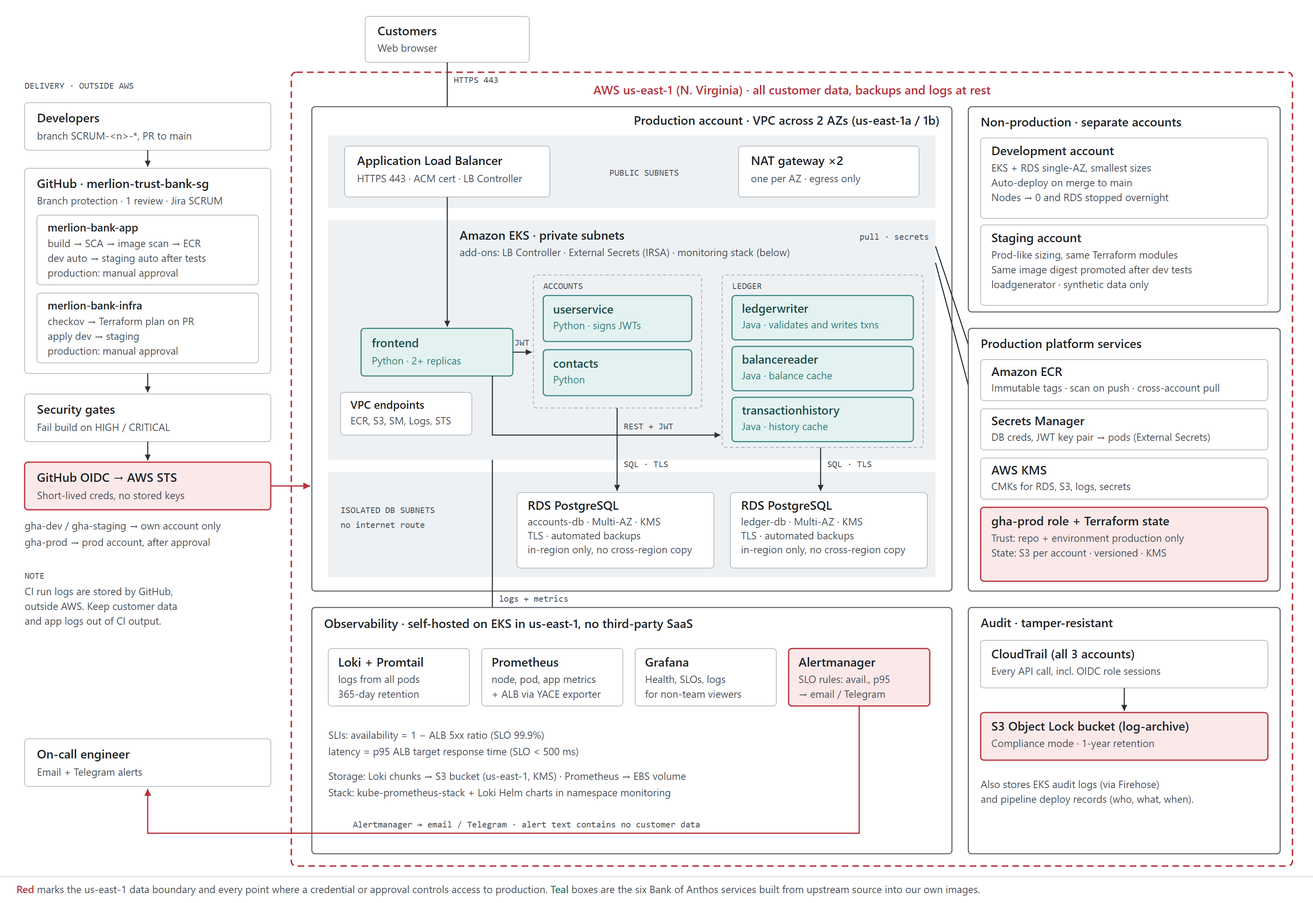
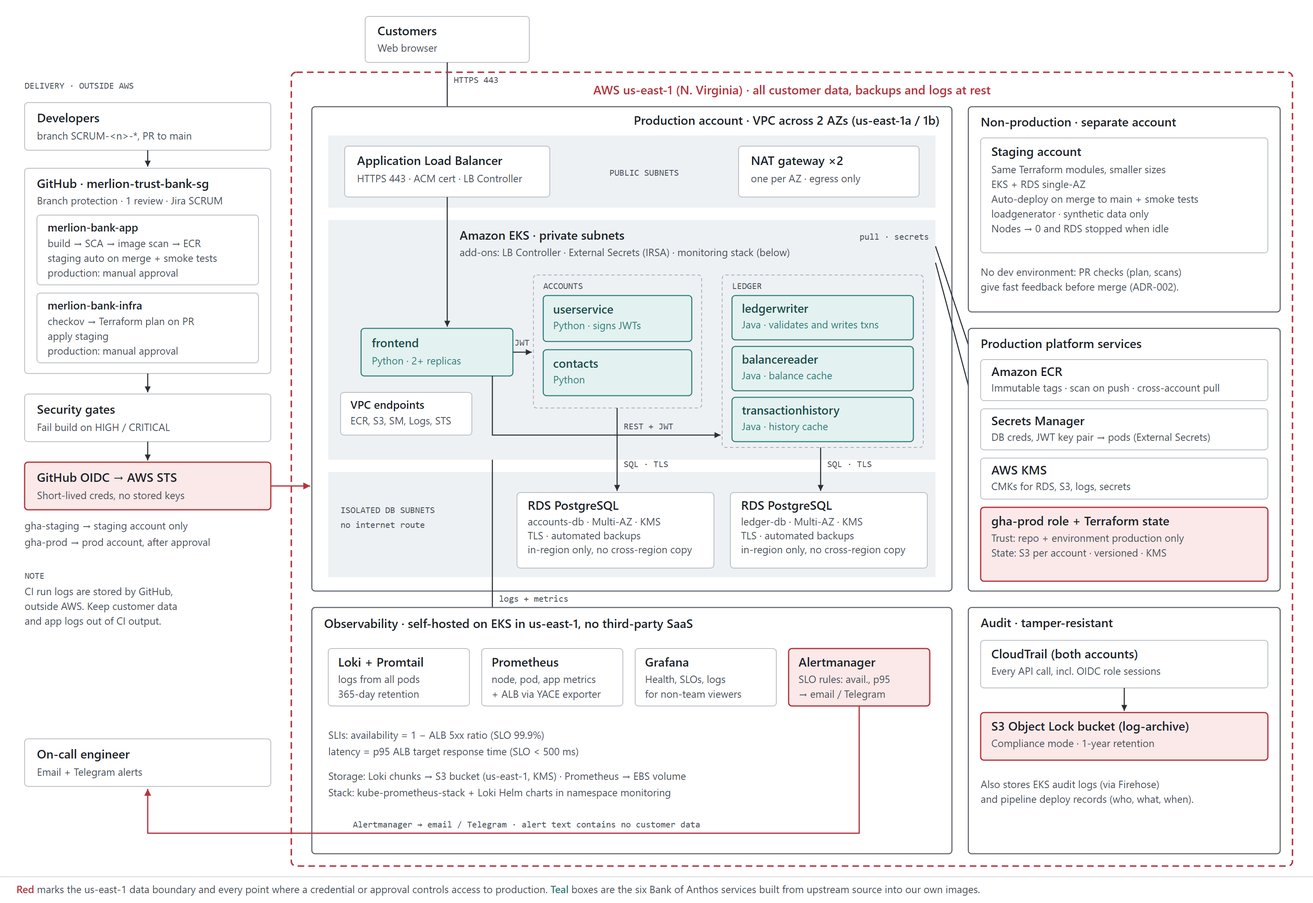
docs: DOC-07 two environments - update task breakdown, diagram, checklist

diff --git a/docs/task-breakdown.md b/docs/task-breakdown.md
@@ -1,7 +1,7 @@
 # Merlion Trust Bank – Code Check-in Task Breakdown
 
 Capstone: Cloud Infrastructure Engineering · Use Case A (Merlion Trust Bank) · Reference app: Google Bank of Anthos
-Region: **`us-east-1`** (2 AZs: `us-east-1a`, `us-east-1b`) · Accounts: **dev / staging / prod** · Work tracking: **Jira SCRUM board**
+Region: **`us-east-1`** (2 AZs: `us-east-1a`, `us-east-1b`) · Environments / accounts: **staging / prod** · Work tracking: **Jira SCRUM board**
 
 > **Region note.** The brief's data-residency constraint names `ap-southeast-1`. Our instructor has directed us to deploy in **`us-east-1`**, so we treat the constraint as *"all customer data, backups and logs stay in one approved region"*.
 > - Region is a single Terraform variable (`var.region`). Moving to Singapore is a variable change plus a redeploy.
@@ -29,15 +29,15 @@ Region: **`us-east-1`** (2 AZs: `us-east-1a`, `us-east-1b`) · Accounts: **dev /
 
 | Layer | What we build |
 |---|---|
-| Delivery (outside AWS) | GitHub org `merlion-trust-bank-sg` · branches `SCRUM-<n>-*` · PR to `main` with 1 review · Actions: build → SCA → image scan · dev auto → staging auto after tests → **production manual approval** · Terraform plan shown on PR |
-| Identity | GitHub OIDC → AWS STS. `gha-dev` / `gha-staging` can only touch their own account. `gha-prod` reaches the prod account only from the `production` environment, after approval. No stored keys |
-| Accounts | **Dev** (EKS + RDS single-AZ, smallest sizes, auto-deploy on merge, scale to 0 overnight) · **Staging** (prod-like sizing, same Terraform modules, same image promoted, loadgenerator) · **Prod** |
+| Delivery (outside AWS) | GitHub org `merlion-trust-bank-sg` · branches `SCRUM-<n>-*` · PR to `main` with 1 review · Actions: build → SCA → image scan · staging auto on merge → smoke tests → **production manual approval** · Terraform plan shown on PR |
+| Identity | GitHub OIDC → AWS STS. `gha-staging` can only touch the staging account. `gha-prod` reaches the prod account only from the `production` environment, after approval. No stored keys |
+| Accounts | **Staging** (prod-like but smaller, same Terraform modules, auto-deploy on merge, loadgenerator, scaled down when idle) · **Prod** (same image digest promoted after approval). No dev environment: PR checks give fast feedback (ADR-002) |
 | Network (prod) | VPC across 2 AZs. **Public subnets:** ALB (AWS Load Balancer Controller + ACM cert), NAT gateway. **Private subnets:** EKS. **Isolated DB subnets:** no internet route |
 | Workload | 6 Bank of Anthos services built into our own images: `frontend` (2+ replicas), `userservice` (signs JWTs), `contacts`, `ledgerwriter`, `balancereader`, `transactionhistory` |
 | Data | RDS PostgreSQL `accounts-db` and `ledger-db`: Multi-AZ, KMS-encrypted, automated backups, SQL over TLS |
 | Platform services | ECR (immutable tags, scan on push) · Secrets Manager (DB creds, JWT key pair → pods via External Secrets/IRSA) · KMS CMKs (RDS, S3, logs, secrets) · Terraform state in S3 (versioned, encrypted) |
 | Observability | **Self-hosted on EKS** in `us-east-1`, no third-party SaaS (namespace `monitoring`, `kube-prometheus-stack` + Loki Helm charts): **Loki + Promtail** (logs from all pods, chunks in S3 `us-east-1` + KMS, 365-day retention) · **Prometheus** (node, pod, app metrics on EBS; ALB metrics via **YACE** CloudWatch exporter) · **Grafana** (health, SLOs, logs for non-team viewers) · **Alertmanager** (SLO rules → email / Telegram) |
-| Audit | CloudTrail in all 3 accounts → **S3 Object Lock, compliance mode, 1-year retention**. Also stores EKS audit logs and pipeline deploy records (who, what, when) |
+| Audit | CloudTrail in both accounts → **S3 Object Lock, compliance mode, 1-year retention**. Also stores EKS audit logs and pipeline deploy records (who, what, when) |
 
 ---
 
@@ -50,7 +50,7 @@ merlion-bank-infra/
 ├── .github/
 │   ├── workflows/
 │   │   ├── tf-plan.yml            # PR: fmt, validate, tflint, checkov, plan per env -> PR comment
-│   │   └── tf-apply.yml           # main: apply dev -> staging -> (approval) -> prod
+│   │   └── tf-apply.yml           # main: apply staging -> (approval) -> prod
 │   ├── CODEOWNERS
 │   └── pull_request_template.md
 ├── bootstrap/                     # per account: state bucket, lock, GitHub OIDC provider
@@ -61,14 +61,13 @@ merlion-bank-infra/
 │   ├── rds/                       # accounts-db, ledger-db
 │   ├── ecr/                       # one repo per service
 │   ├── secrets/                   # Secrets Manager entries (DB creds, JWT key pair)
-│   ├── iam-ci/                    # gha-dev, gha-staging, gha-prod OIDC roles
+│   ├── iam-ci/                    # gha-staging, gha-prod OIDC roles
 │   ├── audit/                     # CloudTrail + Object Lock bucket
 │   ├── addons/                    # LB Controller, External Secrets
 │   └── observability/             # Loki S3 bucket + IRSA, Helm releases (kube-prometheus-stack,
 │                                  #   Loki, Promtail, YACE), Grafana dashboards JSON,
 │                                  #   PrometheusRules (SLOs), Alertmanager routes
 ├── envs/
-│   ├── dev/                       # root module, dev account
 │   ├── staging/                   # root module, staging account
 │   └── prod/                      # root module, prod account
 ├── docs/
@@ -89,14 +88,13 @@ merlion-bank-app/
 ├── .github/
 │   ├── workflows/
 │   │   ├── ci.yml                 # PR: SCA, build, image scan (fail on HIGH/CRITICAL), gitleaks
-│   │   └── cd.yml                 # main: push ECR -> dev -> tests -> staging -> approval -> prod
+│   │   └── cd.yml                 # main: push ECR -> staging -> smoke tests -> approval -> prod
 │   ├── CODEOWNERS
 │   └── pull_request_template.md
 ├── src/                           # Bank of Anthos upstream source, pinned release tag
 ├── deploy/
 │   └── helm/bank-of-anthos/       # OUR chart (upstream manifests = reference only)
 │       ├── templates/
-│       ├── values-dev.yaml
 │       ├── values-staging.yaml
 │       └── values-prod.yaml
 ├── ops/
@@ -105,7 +103,7 @@ merlion-bank-app/
 │   ├── queries/                   # saved LogQL / PromQL queries
 │   └── demo/                      # failing-gate PR + alert trigger scripts
 ├── security/.trivyignore          # justified exceptions only, each with expiry
-└── README.md                      # pipeline doc: SCRUM branch -> PR -> dev -> staging -> prod
+└── README.md                      # pipeline doc: SCRUM branch -> PR -> staging -> prod
 ```
 
 ---
@@ -120,7 +118,7 @@ merlion-bank-app/
 | Reviewer | **Never the author**, and preferably from a different role (see "Reviewer" columns) |
 | Commit messages | `SCRUM-<n>: <type>(<scope>): <summary>`. Example: `SCRUM-12: feat(network): add isolated DB subnets` |
 | PR template | What changed · Why · Jira link · `terraform plan` / test evidence · Constraint impact (region / audit / retention / credentials) |
-| GitHub Environments | `dev` (no gate) · `staging` (no gate, runs after dev tests) · `production` (**required reviewers**, only `main`) |
+| GitHub Environments | `staging` (no gate, auto on merge to `main`) · `production` (**required reviewers**, only `main`) |
 | Never commit | Secrets, kubeconfigs, `.terraform/`, state files, `*.tfvars` with secrets. gitleaks runs as a pre-commit hook and in CI |
 | CI output hygiene | CI run logs are stored by GitHub, outside our AWS region. **No customer data and no app logs in CI output.** Smoke tests assert on status codes only |
 
@@ -135,23 +133,23 @@ Replace `SCRUM-<n>` with the Jira issue number when you create the ticket.
 | ID | Task | Owner | Branch | Key files | Depends on | Reviewer |
 |---|---|---|---|---|---|---|
 | INF-01 | Repo setup: branch protection, CODEOWNERS, PR template, `.gitignore`, gitleaks pre-commit, Jira link, README skeleton | DO1 | `SCRUM-<n>-repo-setup` | `.github/*`, `README.md` | – | SA |
-| INF-02 | Bootstrap **each account** (dev, staging, prod): S3 state bucket (versioned, KMS), lock table, GitHub OIDC provider | DO1 | `SCRUM-<n>-bootstrap` | `bootstrap/` | INF-01 | SRE |
-| INF-03 | OIDC roles `gha-dev`, `gha-staging`, `gha-prod`. Trust is pinned to `repo:merlion-trust-bank-sg/*` + environment; `gha-prod` trusts only `environment:production`; each role is scoped to its own account | DO1 | `SCRUM-<n>-oidc-roles` | `modules/iam-ci/` | INF-02 | SA |
+| INF-02 | Bootstrap **each account** (staging, prod): S3 state bucket (versioned, KMS), lock table, GitHub OIDC provider | DO1 | `SCRUM-<n>-bootstrap` | `bootstrap/` | INF-01 | SRE |
+| INF-03 | OIDC roles `gha-staging`, `gha-prod`. Trust is pinned to `repo:merlion-trust-bank-sg/*` + environment; `gha-prod` trusts only `environment:production`; each role is scoped to its own account | DO1 | `SCRUM-<n>-oidc-roles` | `modules/iam-ci/` | INF-02 | SA |
 | INF-04 | KMS module: CMKs for RDS, S3 (state + audit), CloudWatch Logs, Secrets Manager; key policies, rotation on | DO2 | `SCRUM-<n>-kms` | `modules/kms/` | INF-02 | DO1 |
-| INF-05 | Network: VPC across **2 AZs (`us-east-1a`, `us-east-1b`)**. Public subnets (ALB, NAT), private subnets (EKS), **isolated DB subnets with no internet route**, VPC endpoints (ECR, S3, Secrets Manager, Logs, STS). 1 NAT in dev/staging | DO1 | `SCRUM-<n>-network` | `modules/network/` | INF-02 | SA |
+| INF-05 | Network: VPC across **2 AZs (`us-east-1a`, `us-east-1b`)**. Public subnets (ALB, NAT), private subnets (EKS), **isolated DB subnets with no internet route**, VPC endpoints (ECR, S3, Secrets Manager, Logs, STS). 1 NAT in staging, 1 per AZ in prod | DO1 | `SCRUM-<n>-network` | `modules/network/` | INF-02 | SA |
 | INF-06 | EKS: cluster in private subnets, managed node group, IRSA, control-plane logs **including `audit`** → CloudWatch | DO1 | `SCRUM-<n>-eks` | `modules/eks/` | INF-05 | SRE |
-| INF-07 | RDS: `accounts-db` and `ledger-db` PostgreSQL in isolated DB subnets. Multi-AZ in staging/prod, single-AZ in dev. KMS encryption, automated backups, `rds.force_ssl = 1`, SG allows only EKS nodes | DO2 | `SCRUM-<n>-rds` | `modules/rds/` | INF-04, INF-05 | DO1 |
+| INF-07 | RDS: `accounts-db` and `ledger-db` PostgreSQL in isolated DB subnets. Multi-AZ in prod, single-AZ in staging (cost). KMS encryption, automated backups, `rds.force_ssl = 1`, SG allows only EKS nodes | DO2 | `SCRUM-<n>-rds` | `modules/rds/` | INF-04, INF-05 | DO1 |
 | INF-08 | ECR: one repo per service, **immutable tags**, scan on push, lifecycle policy. Promotion model (central vs per-account) per ADR-007 | DO2 | `SCRUM-<n>-ecr` | `modules/ecr/` | INF-02 | DO1 |
 | INF-09 | Secrets Manager: DB credentials (RDS-managed master secret) and JWT key pair, KMS-encrypted. Read access only for the External Secrets IRSA role | DO2 | `SCRUM-<n>-secrets` | `modules/secrets/` | INF-04, INF-07 | SRE |
-| INF-10 | Audit: CloudTrail in **all 3 accounts** (management + data events for audit bucket) → S3 bucket with **Object Lock compliance mode, 365 days**, log file validation, bucket policy denying delete/`PutBucketObjectLockConfiguration` to engineering roles; prefixes for EKS audit logs and pipeline deploy records | SA | `SCRUM-<n>-audit-trail` | `modules/audit/` | INF-04 | DO1 |
+| INF-10 | Audit: CloudTrail in **both accounts** (management + data events for audit bucket) → S3 bucket with **Object Lock compliance mode, 365 days**, log file validation, bucket policy denying delete/`PutBucketObjectLockConfiguration` to engineering roles; prefixes for EKS audit logs and pipeline deploy records | SA | `SCRUM-<n>-audit-trail` | `modules/audit/` | INF-04 | DO1 |
 | INF-11 | Region guardrail: `var.region = "us-east-1"` in every env root; deny-other-regions policy on CI roles; CloudTrail alarm on console write events in prod | SA | `SCRUM-<n>-region-guardrail` | `modules/iam-ci/`, `envs/*/providers.tf` | INF-03, INF-10 | DO1 |
-| INF-12 | Env roots `envs/dev`, `envs/staging`, `envs/prod` wiring all modules. Separate state per account; dev smallest sizes, staging prod-like | DO1 | `SCRUM-<n>-env-roots` | `envs/` | INF-04…10 | DO2 |
-| INF-13 | Infra pipeline. **PR:** fmt / validate / tflint / **checkov (fail on HIGH)** / `plan` per env posted as PR comment. **main:** apply dev (`gha-dev`) → staging (`gha-staging`) → **manual approval** → prod (`gha-prod`) | DO2 | `SCRUM-<n>-tf-pipeline` | `.github/workflows/tf-*.yml` | INF-03, INF-12 | DO1 |
+| INF-12 | Env roots `envs/staging`, `envs/prod` wiring all modules. Separate state per account; staging smaller sizes | DO1 | `SCRUM-<n>-env-roots` | `envs/` | INF-04…10 | DO2 |
+| INF-13 | Infra pipeline. **PR:** fmt / validate / tflint / **checkov (fail on HIGH)** / `plan` per env posted as PR comment. **main:** apply staging (`gha-staging`) → **manual approval** → prod (`gha-prod`) | DO2 | `SCRUM-<n>-tf-pipeline` | `.github/workflows/tf-*.yml` | INF-03, INF-12 | DO1 |
 | INF-14 | Cluster add-ons part 1: **AWS Load Balancer Controller** (IRSA), **ACM certificate** for the ALB, **External Secrets Operator** (IRSA → Secrets Manager) | DO2 | `SCRUM-<n>-addons-lb-eso` | `modules/addons/` | INF-06, INF-09 | SRE |
 | INF-15 | Monitoring stack in namespace `monitoring` via Helm (Terraform `helm_release`, pinned chart versions): **kube-prometheus-stack** (Prometheus on EBS PV, node-exporter, kube-state-metrics, Grafana, Alertmanager), **Loki** with chunks in an **S3 bucket in `us-east-1`** (KMS, IRSA, compactor retention **365 days**), **Promtail** DaemonSet (or Grafana Alloy, Promtail's successor), **YACE** exporter (IRSA, read-only CloudWatch) for ALB 5xx / `TargetResponseTime`. Grafana exposed via ALB ingress with login, admin password from Secrets Manager | SRE | `SCRUM-<n>-monitoring-stack` | `modules/observability/` | INF-06, INF-04, INF-14 | DO2 |
 | INF-16 | Alert routing: **Alertmanager** receivers for **email** (SMTP) and **Telegram** (native `telegram_configs`). Bot token + SMTP creds via External Secrets, never in values files. Alert templates carry metric names and thresholds only, **no customer data**. Include a `Watchdog` / dead-man's-switch alert so a down Prometheus is noticed | SRE | `SCRUM-<n>-alertmanager-routing` | `modules/observability/` | INF-15 | DO2 |
 | INF-17 | **Grafana dashboard** ("is the system healthy right now?"): SLO status + error budget, ALB requests / 5xx / p95, pod and node CPU and memory, Loki log panel per service. Provisioned as JSON (dashboards-as-code). **PrometheusRules** for SLOs: availability burn rate, p95 > 500 ms, plus pod CrashLoop / DB unreachable | SRE | `SCRUM-<n>-grafana-slo-rules` | `modules/observability/` | INF-15, INF-16, APP-13 | SA |
-| INF-18 | Cost controls: tagging standard, AWS Budgets alert per account, **dev scale-to-0 overnight** (scheduled node group scaling), teardown workflow | SRE | `SCRUM-<n>-cost-controls` | `envs/dev/`, `.github/workflows/teardown.yml` | INF-12 | SA |
+| INF-18 | Cost controls: tagging standard, AWS Budgets alert per account, **staging scale-to-0 when idle** (scheduled node group scaling, RDS stop), teardown workflow | SRE | `SCRUM-<n>-cost-controls` | `envs/staging/`, `.github/workflows/teardown.yml` | INF-12 | SA |
 
 ### 5.2 Docs and ADRs (`merlion-bank-infra/docs`)
 
@@ -161,20 +159,20 @@ Replace `SCRUM-<n>` with the Jira issue number when you create the ticket.
 | DOC-02 | Architecture diagram: update the region label to `us-east-1` and keep it matching what's deployed | SA | `SCRUM-<n>-architecture-diagram` | DO1 |
 | DOC-03 | Service selection: chosen vs alternative vs why (EKS, RDS, GitHub Actions, Prometheus/Loki/Grafana, Secrets Manager) | SA | `SCRUM-<n>-service-selection` | DO2 |
 | DOC-04 | Constraint compliance mapping: constraint → decision → evidence (see [section 8](#8-hard-constraint-traceability)) | SA | `SCRUM-<n>-compliance-map` | SRE |
-| DOC-05 | Monthly prod cost estimate with `us-east-1` pricing (EKS, nodes incl. monitoring stack, 2× Multi-AZ RDS, NAT, ALB, EBS for Prometheus, S3 for Loki + audit, CloudTrail, YACE CloudWatch API calls) plus dev/staging run cost | SA | `SCRUM-<n>-cost-estimate` | SRE |
+| DOC-05 | Monthly prod cost estimate with `us-east-1` pricing (EKS, nodes incl. monitoring stack, 2× Multi-AZ RDS, NAT, ALB, EBS for Prometheus, S3 for Loki + audit, CloudTrail, YACE CloudWatch API calls) plus staging run cost | SA | `SCRUM-<n>-cost-estimate` | SRE |
 | DOC-06 | ADR-001 Runtime: EKS vs ECS | SA | `SCRUM-<n>-adr-001-runtime` | DO1 |
-| DOC-07 | ADR-002 Multi-account dev/staging/prod vs single account | DO1 | `SCRUM-<n>-adr-002-accounts` | SA |
+| DOC-07 | ADR-002 Environments: staging + production, one account each (vs single account, vs adding dev) | DO1 | `SCRUM-<n>-adr-002-accounts` | SA |
 | DOC-08 | ADR-003 Observability: **self-hosted Prometheus + Loki + Grafana + Alertmanager on EKS** (chosen) vs CloudWatch (alternative) vs Grafana Cloud (rejected: SaaS, data outside our region). Consequences: data stays in `us-east-1`, open-source skills from the labs, no per-GB ingest fees; but we operate it ourselves (single replicas, so a Watchdog alert is needed), and ALB metrics still come from CloudWatch via YACE | SRE | `SCRUM-<n>-adr-003-observability` | SA |
 | DOC-09 | ADR-004 Audit log immutability: S3 Object Lock compliance mode, 1 year | SA | `SCRUM-<n>-adr-004-audit` | DO1 |
 | DOC-10 | ADR-005 Credentials: GitHub OIDC per environment, no static keys | DO1 | `SCRUM-<n>-adr-005-oidc` | DO2 |
 | DOC-11 | ADR-006 Region: `us-east-1` per instructor directive (deviation from the brief, approval recorded, region parameterised) | SA | `SCRUM-<n>-adr-006-region` | SRE |
-| DOC-12 | ADR-007 Image promotion: build once, promote the same digest dev → staging → prod (central ECR vs per-account copy) | DO2 | `SCRUM-<n>-adr-007-promotion` | DO1 |
+| DOC-12 | ADR-007 Image promotion: build once, promote the same digest staging → prod (central ECR vs per-account copy) | DO2 | `SCRUM-<n>-adr-007-promotion` | DO1 |
 
 ### 5.3 `merlion-bank-app`
 
 | ID | Task | Owner | Branch | Key files | Depends on | Reviewer |
 |---|---|---|---|---|---|---|
-| APP-01 | Repo setup: branch protection, CODEOWNERS, PR template, GitHub Environments `dev`, `staging`, `production` (prod requires reviewers) | DO2 | `SCRUM-<n>-repo-setup` | `.github/*` | – | DO1 |
+| APP-01 | Repo setup: branch protection, CODEOWNERS, PR template, GitHub Environments `staging`, `production` (prod requires reviewers) | DO2 | `SCRUM-<n>-repo-setup` | `.github/*` | – | DO1 |
 | APP-02 | Vendor Bank of Anthos source at a pinned release tag into `src/`, recording the upstream commit in README | DO2 | `SCRUM-<n>-import-source` | `src/`, `README.md` | APP-01 | SA |
 | APP-03 | Build images for the **6 services** (+ `loadgenerator` for staging), tagged with git SHA, pushed by digest | DO2 | `SCRUM-<n>-image-builds` | `ci.yml` | APP-02, INF-08 | DO1 |
 | APP-04 | **Security gate 1 – SCA:** Trivy `fs` / OWASP dependency-check on Python + Java deps, **fail on HIGH/CRITICAL**, exit code not suppressed | DO2 | `SCRUM-<n>-sca-gate` | `ci.yml` | APP-03 | SRE |
@@ -182,10 +180,10 @@ Replace `SCRUM-<n>` with the Jira issue number when you create the ticket.
 | APP-06 | Secret scanning: gitleaks in CI | DO1 | `SCRUM-<n>-gitleaks` | `ci.yml` | APP-01 | DO2 |
 | APP-07 | Helm chart (our own): 6 Deployments + Services, **`frontend` ≥ 2 replicas**, probes, requests/limits, PDBs, HPA on `frontend`. Ingress `ingressClassName: alb` with ACM cert and HTTPS 443. DB endpoints → RDS over TLS | DO1 | `SCRUM-<n>-helm-chart` | `deploy/helm/` | APP-03, INF-07, INF-14 | DO2 |
 | APP-08 | Secrets wiring: `ExternalSecret` objects for DB creds + JWT key pair → Kubernetes Secrets → pods. Nothing in values files or images | DO1 | `SCRUM-<n>-external-secrets` | `deploy/helm/templates/externalsecret.yaml` | APP-07, INF-09, INF-14 | SRE |
-| APP-09 | Env values: `values-dev` (1 replica, smallest), `values-staging` (prod-like, `loadgenerator` on), `values-prod` | DO1 | `SCRUM-<n>-env-values` | `deploy/helm/values-*.yaml` | APP-07 | SA |
-| APP-10 | CD pipeline: merge to `main` → build + gates → push → **dev** (`gha-dev`) auto → smoke tests → **staging** (`gha-staging`) auto, same digest → **manual approval** → **prod** (`gha-prod`) | DO2 | `SCRUM-<n>-cd-pipeline` | `cd.yml` | APP-05, APP-09, INF-03 | DO1 |
+| APP-09 | Env values: `values-staging` (smaller, `loadgenerator` on), `values-prod` | DO1 | `SCRUM-<n>-env-values` | `deploy/helm/values-*.yaml` | APP-07 | SA |
+| APP-10 | CD pipeline: merge to `main` → build + gates → push → **staging** (`gha-staging`) auto → smoke tests → **manual approval** → **prod** (`gha-prod`), same image digest | DO2 | `SCRUM-<n>-cd-pipeline` | `cd.yml` | APP-05, APP-09, INF-03 | DO1 |
 | APP-11 | Deploy audit record: on every prod deploy, the pipeline writes `{actor, approver, PR, commit SHA, image digest, env, timestamp}` to the Object Lock bucket | SA | `SCRUM-<n>-deploy-audit` | `cd.yml` | APP-10, INF-10 | DO2 |
-| APP-12 | Pipeline README: SCRUM branch → PR → dev → staging → prod; approvals; **what happens when a security gate fails**; CI-log hygiene note | DO2 | `SCRUM-<n>-pipeline-readme` | `README.md` | APP-10 | SA |
+| APP-12 | Pipeline README: SCRUM branch → PR → staging → prod; approvals; **what happens when a security gate fails**; CI-log hygiene note | DO2 | `SCRUM-<n>-pipeline-readme` | `README.md` | APP-10 | SA |
 | APP-13 | Logging check: all 6 services log to stdout, visible in Loki per service (`{namespace="bank", app="<service>"}`). Save LogQL queries (errors per service, failed logins, ledger write failures) | SRE | `SCRUM-<n>-log-queries` | `ops/queries/` | APP-10, INF-15 | DO1 |
 | APP-14 | SLIs and SLOs: **availability** = 1 − ALB 5xx ratio (target 99.9%); **p95 latency** = ALB `TargetResponseTime` p95 (target < 500 ms). Justification + error budget | SRE | `SCRUM-<n>-slo` | `ops/slo/slo.md` | APP-13 | SA |
 | APP-15 | Incident runbook, e.g. "ledger-db failover / connection errors": detection (Alertmanager alert), diagnosis (Grafana dashboard, LogQL in Loki, RDS events), mitigation, escalation | SRE | `SCRUM-<n>-runbook` | `ops/runbooks/` | INF-17 | DO1 |

diff --git a/docs/progress-checklist.md b/docs/progress-checklist.md
@@ -15,7 +15,7 @@ Repos: `merlion-trust-bank/merlion-bank-infra` · `merlion-trust-bank/merlion-ba
 |---|---|
 | 4 roles | You play every role |
 | 3 AWS accounts | 1 shared course account; environments separated by **state key + `kean-` name prefix + per-env IAM role** |
-| Staging environment | Optional: build `dev` and `prod` first, add `staging` only if budget and time allow |
+| 3 environments (dev, staging, prod) | **2 environments: `staging` + `prod`** (team and individual, ADR-002); staging is smaller and scaled down when idle |
 | DynamoDB state lock | S3 native lockfile (`use_lockfile = true`, Terraform ≥ 1.10) |
 | Teammate approval | Self-merge (required approvals = 0 in the individual repo only) |
 | Org-wide CloudTrail | If the student role can't create trails, use a `kean-` trail on the account, or document the instructor's trail as the evidence |
@@ -45,7 +45,7 @@ Repos: `merlion-trust-bank/merlion-bank-infra` · `merlion-trust-bank/merlion-ba
 | [x] | SA | **DOC-11** ADR-006 Region | infra | Why `us-east-1` instead of Singapore; region is a single variable | `docs/adr/006-region.md` merged |
 | [x] | SA | **DOC-06** ADR-001 Runtime | infra | EKS vs ECS: decision + consequences | ADR merged |
 | [x] | DO1 | **DOC-07** ADR-002 Accounts | infra | Team: 3 accounts. Solo: 1 account, separation by state / role / prefix; trade-offs | ADR merged |
-| [ ] | DO1 | **INF-03** OIDC roles | infra | Terraform `modules/iam-ci`: `gha-dev`, `gha-prod` roles trusting only your repo + GitHub environment; least-privilege policies | Roles exist; trust policy shows `repo:` and `environment:` conditions |
+| [ ] | DO1 | **INF-03** OIDC roles | infra | Terraform `modules/iam-ci`: `gha-staging`, `gha-prod` roles trusting only your repo + GitHub environment; least-privilege policies | Roles exist; trust policy shows `repo:` and `environment:` conditions |
 | [ ] | DO1 | **DOC-10** ADR-005 OIDC | infra | Short-lived creds, no static keys | ADR merged |
 | [ ] | DO2 | **INF-04** KMS | infra | Terraform `modules/kms`: CMKs for RDS, S3, logs, secrets, rotation on | Keys + aliases `alias/kean-*` |
 | [ ] | DO1 | **INF-05** Network | infra | Terraform `modules/network`: VPC, 2 AZs, public / private / isolated-DB subnets, NAT, VPC endpoints | `plan` clean; `apply` only when EKS is next (NAT costs hourly) |
@@ -58,18 +58,18 @@ Repos: `merlion-trust-bank/merlion-bank-infra` · `merlion-trust-bank/merlion-ba
 | [ ] | SA | **DOC-09** ADR-004 Audit | infra | Why compliance mode; cost note (same as governance) | ADR merged |
 | [ ] | SA | **INF-11** Region guardrail | infra | `var.region` everywhere; deny-other-regions policy on CI roles | Policy attached; `plan` shows it |
 | [ ] | DO1 | **INF-06** EKS | infra | Terraform `modules/eks`: cluster, managed node group (small), IRSA, control-plane audit logs | `kubectl get nodes` Ready |
-| [ ] | DO2 | **INF-07** RDS | infra | Terraform `modules/rds`: `accounts-db`, `ledger-db` in isolated subnets, KMS, backups, `force_ssl`; single-AZ in dev | Both DBs available, not publicly accessible |
+| [ ] | DO2 | **INF-07** RDS | infra | Terraform `modules/rds`: `accounts-db`, `ledger-db` in isolated subnets, KMS, backups, `force_ssl`; single-AZ in staging, Multi-AZ in prod | Both DBs available, not publicly accessible |
 | [ ] | DO2 | **INF-08** ECR | infra | Terraform `modules/ecr`: one repo per service, immutable, scan on push | 7 repos `kean-*` |
 | [ ] | DO2 | **DOC-12** ADR-007 Promotion | infra | Build once, promote the same digest | ADR merged |
 | [ ] | DO2 | **INF-09** Secrets | infra | Terraform `modules/secrets`: DB creds (RDS-managed) + JWT key pair in Secrets Manager | Secrets exist, KMS-encrypted |
-| [ ] | DO1 | **INF-12** Env roots | infra | `envs/dev` (+ `envs/prod`) wiring modules, S3 backend with `use_lockfile` | `terraform plan` per env from the remote backend |
-| [ ] | DO2 | **INF-13** Infra pipeline | infra | GitHub Actions: PR → fmt / validate / tflint / checkov / plan comment; main → apply dev → approval → prod (OIDC) | A PR shows a plan comment; a failing checkov blocks it |
+| [ ] | DO1 | **INF-12** Env roots | infra | `envs/staging` + `envs/prod` wiring modules (remove `envs/dev`), S3 backend with `use_lockfile` | `terraform plan` per env from the remote backend |
+| [ ] | DO2 | **INF-13** Infra pipeline | infra | GitHub Actions: PR → fmt / validate / tflint / checkov / plan comment; main → apply staging → approval → prod (OIDC) | A PR shows a plan comment; a failing checkov blocks it |
 
 ## Phase 3 – Application delivery
 
 | ✓ | Role | Ticket | Repo | What you do (essence) | Done when |
 |---|---|---|---|---|---|
-| [ ] | DO2 | **APP-01** Repo setup | app | Same guardrails as INF-01 + GitHub Environments `dev`, `production` (reviewer = you) | Environments visible in Settings |
+| [ ] | DO2 | **APP-01** Repo setup | app | Same guardrails as INF-01 + GitHub Environments `staging`, `production` (reviewer = you) | Environments visible in Settings |
 | [ ] | DO2 | **APP-02** Import source | app | Vendor Bank of Anthos at a pinned tag into `src/` | Upstream tag recorded in README |
 | [ ] | DO2 | **APP-03** Image builds | app | Actions: build 6 services (+ loadgenerator), tag = git SHA | Images built in CI |
 | [ ] | DO2 | **APP-04** SCA gate | app | Trivy fs / dependency scan, fail on HIGH/CRITICAL | A vulnerable dependency fails the job |
@@ -78,8 +78,8 @@ Repos: `merlion-trust-bank/merlion-bank-infra` · `merlion-trust-bank/merlion-ba
 | [ ] | DO2 | **INF-14** LB Controller + ESO | infra | Terraform Helm releases: AWS Load Balancer Controller, ACM cert, External Secrets (IRSA) | Controllers running |
 | [ ] | DO1 | **APP-07** Helm chart | app | Your own chart: 6 Deployments/Services, probes, limits, PDB, HPA, ALB ingress | `helm template` renders; lint passes |
 | [ ] | DO1 | **APP-08** ExternalSecrets | app | DB creds + JWT keys from Secrets Manager → pods | Pods start with no secrets in values |
-| [ ] | DO1 | **APP-09** Env values | app | `values-dev.yaml`, `values-prod.yaml` | Diff between envs is only sizing / hosts |
-| [ ] | DO2 | **APP-10** CD pipeline | app | main → ECR → deploy dev → smoke test → **approval** → prod (OIDC per env) | App reachable via ALB HTTPS |
+| [ ] | DO1 | **APP-09** Env values | app | `values-staging.yaml`, `values-prod.yaml` | Diff between envs is only sizing / hosts |
+| [ ] | DO2 | **APP-10** CD pipeline | app | main → ECR → deploy staging → smoke test → **approval** → prod (OIDC per env) | App reachable via ALB HTTPS |
 | [ ] | SA | **APP-11** Deploy audit record | app | Pipeline writes who / what / when / digest to the Object Lock bucket | A JSON record exists per prod deploy |
 | [ ] | DO2 | **APP-12** Pipeline README | app | Flow, approvals, failed-gate handling, CI-log hygiene | README merged |
 | [ ] | SA | **DOC-03** Service selection | infra | Chosen vs alternative vs why, for each major component | Doc merged |
@@ -95,7 +95,7 @@ Repos: `merlion-trust-bank/merlion-bank-infra` · `merlion-trust-bank/merlion-ba
 | [ ] | SRE | **APP-14** SLIs / SLOs | app | Availability 99.9%, p95 < 500 ms, error budget | `ops/slo/slo.md` merged |
 | [ ] | SRE | **INF-17** Dashboard + SLO rules | infra | Grafana dashboard JSON + PrometheusRules | Dashboard answers "healthy right now?" |
 | [ ] | SRE | **APP-15** Runbook | app | Ledger-db failure: detect → diagnose → mitigate → escalate | Runbook merged |
-| [ ] | SRE | **INF-18** Cost controls | infra | Tags, AWS Budget, dev scale-down, teardown workflow | Teardown workflow destroys dev |
+| [ ] | SRE | **INF-18** Cost controls | infra | Tags, AWS Budget, staging scale-down when idle, teardown workflow | Teardown workflow destroys staging |
 | [ ] | SRE+DO2 | **APP-16** Demo scripts | app | Failing-gate PR, alert trigger, audit-trail walkthrough | Rehearsed once end-to-end |
 
 ## Phase 5 – Close-out
